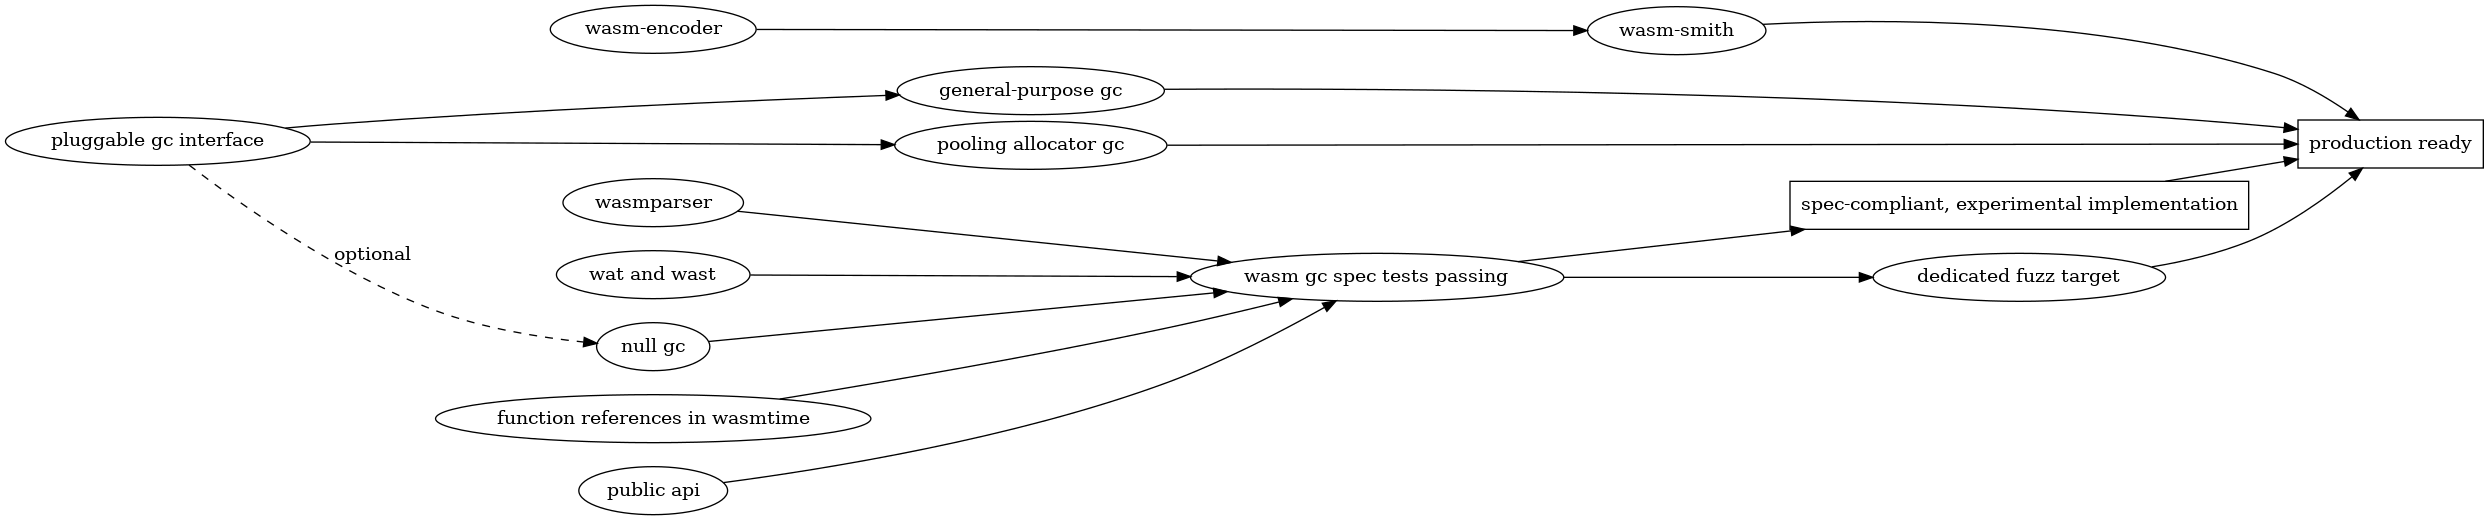
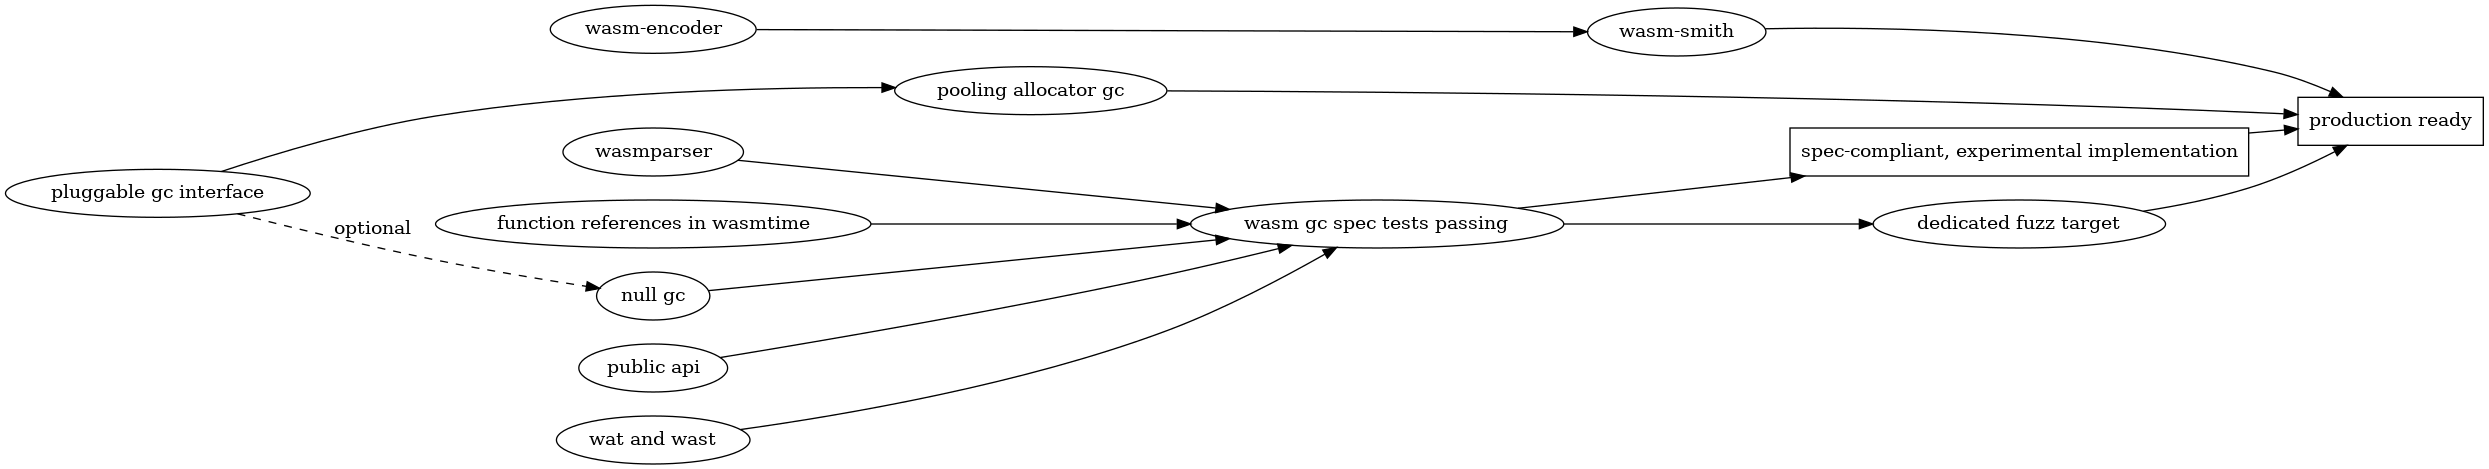
Remove the general-purpose GC from our initial plans
Just have the null GC and the semi-space copying collector for now.

Can evaluate and consider options (MMTK vs home-rolled, etc) later on if/when
stakeholders are actually clamoring for a general-purpose collector.

diff --git a/accepted/wasm-gc.md b/accepted/wasm-gc.md
@@ -12,7 +12,6 @@
     * [The `wasmtime_runtime::GcRuntime` Trait](#the-wasmtime_runtimegcruntime-trait)
   * [GC Implementations](#gc-implementations)
     * [The Null GC](#the-null-gc)
-    * [A General-Purpose GC](#a-general-purpose-gc)
     * [The Pooling Allocator-Integrated Collector](#the-pooling-allocator-integrated-collector)
   * [What about the existing deferred reference-counting collector?](#what-about-the-existing-deferred-reference-counting-collector)
   * [Fuzzing Wasm GC](#fuzzing-wasm-gc)
@@ -1096,19 +1095,23 @@ call and add this scheme later if performance becomes a concern.
 
 ## GC Implementations
 
-We will have three GC implementations:
+We will have two GC implementations:
 
 1. The null GC, which allocates until it runs out of heap space, at which
    point it triggers a trap in the guest.
 
-2. A general-purpose collector, built on top of an off-the-shelf GC library.
-
-3. A collector designed for tight-integration with our pooling allocator and its
+2. A collector designed for tight-integration with our pooling allocator and its
    particular requirements.
 
 Each collector will have a Cargo feature to enable or disable its availability
 at compile time, so that `wasmtime` crate users don't have to pay for things
 they won't use in terms of compile time.
+
+In the future, if there is demand for a general-purpose collector with a
+nursery, compaction, and all that, we can consider adding a third collector. The
+`GcRuntime` and `GcCompiler` traits should ensure that doing so will require
+minimal changes to the rest of Wasmtime. At that time we can evaluate whether we
+want to use an off-the-shelf library like MMTK or develop our own.
 
 ### The Null GC
 
@@ -1123,29 +1126,6 @@ Note that while the null GC is "leaking" memory across a particular Wasm
 instance's lifetime, it should not leaking memory across the whole OS process's
 lifetime. When the instance's store is dropped, we will drop the null GC's heap
 along with it.
-
-### A General-Purpose GC
-
-Implementing a general-purpose collector that works well for many different
-workloads is a humongous engineering task. You'll want a generational garbage
-collector, concurrent collection with the mutator, parallel tracing, background
-sweeping, and more. It is such a large task that it is not something I feel
-comfortable with the Wasmtime project committing itself to. Luckily,
-off-the-shelf GC libraries exist.
-
-The GC library that has been around the longest (to my knowledge) and is
-arguably also the most mature is the [Boehm-Demers-Weiser
-GC](https://www.hboehm.info/gc/). It is implemented in C. There are two crates
-providing Rust bindings to it, but neither seems to be used in anger by anyone
-or particularly mature and battle-hardened.
-
-There are also a variety of libraries implemented in Rust that provide GC, but
-most are experiments; they are not mature or production-ready. The exception is
-[MMTK](https://www.mmtk.io/). It is receiving active development and
-[research](https://users.cecs.anu.edu.au/~steveb/pubs/papers/lxr-pldi-2022.pdf),
-and is built by some of the world's foremost experts in garbage collection. It
-is the obvious choice. This RFC proposes that we use an off-the-shelf collector
-from MMTK to implement Wasmtime's default, general-purpose GC.
 
 ### The Pooling Allocator-Integrated Collector
 
@@ -1217,6 +1197,11 @@ semi-space copying collector. However, confining free lists and mark bits within
 the pre-allocated memory reservation, while possible, would be a very much
 larger engineering task.
 
+It is tempting to reach for an off-the-shelf GC library but our above
+requirements are very specific and it is unlikely we will be able to use an
+off-the-shelf library for our needs without a lot of trouble and impedance
+mismatch.
+
 ## What about the existing deferred reference-counting collector?
 
 We implemented deferred reference counting (without cycle collection) for our
@@ -1228,9 +1213,8 @@ existing `externref` support. Moving forward we have two options:
    1. And port the deferred reference-counting collector to the proposed GC
       interface (and, presumably, also grow a cycle collector) and manage both
       `externref`s and `anyref`s with it.
-   2. Remove the deferred reference-counting collector in favor of the either
-      the off-the-shelf, general-purpose GC or the pooling allocator's
-      semi-space copying collector.
+   2. Remove the deferred reference-counting collector in favor of the other GC
+      backends.
 
 A perhaps-nonobvious implication of option (1) is that cycles between
 `externref`s and `anyref`s will always leak. The `externref` would be rooted in
@@ -1327,7 +1311,6 @@ From there, to get a production-ready implementation we will need:
 * [ ] Wasm GC support in `wasm-smith`
 * [ ] The dedicated fuzzer for exercising Wasm GC
 * [ ] The pluggable GC interface
-* [ ] The general-purpose GC, built with an off-the-shelf collector from MMTK
 * [ ] The semi-space copying collector with tight pooling-allocator integration
 
 # Rationale and Alternatives
@@ -1358,6 +1341,17 @@ From there, to get a production-ready implementation we will need:
   implementation and try and make it general-purpose enough to work for all
   workloads and fit tightly within the pooling allocator's constraints. Doing
   both at the same time seems like an exceedingly hard engineering problem.
+
+* We could start with implementing a general-purpose GC (either our own, as
+  considered in the previous bullet point, or with an off-the-shelf library like
+  MMTK). But either way we need to additionally implement a collector that
+  tightly integrates with the pooling allocator, and no stakeholder has been
+  clamoring for a general-purpose collector right now, so we might as well slim
+  down our initial work plans for now. This lets us avoid effectively
+  unauditable dependencies, at least for the time being. Note that it should
+  still be easy to add in the future, should we want to, since the design of the
+  pluggable GC API separates the collector from the rest of the runtime and
+  prevents entangling the runtime with any particular single collector.
 
 # Open Questions
 [open-questions]: #open-questions
